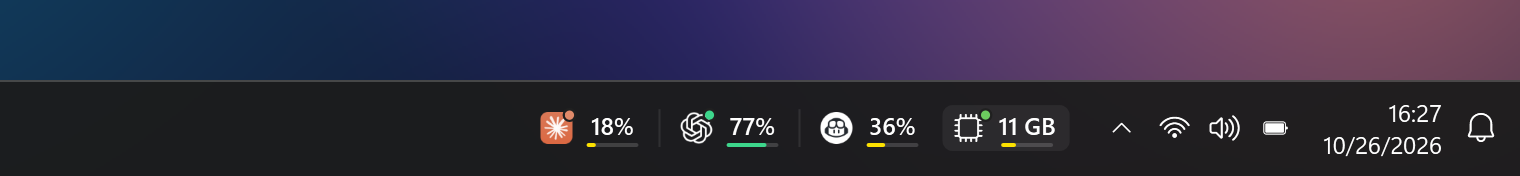
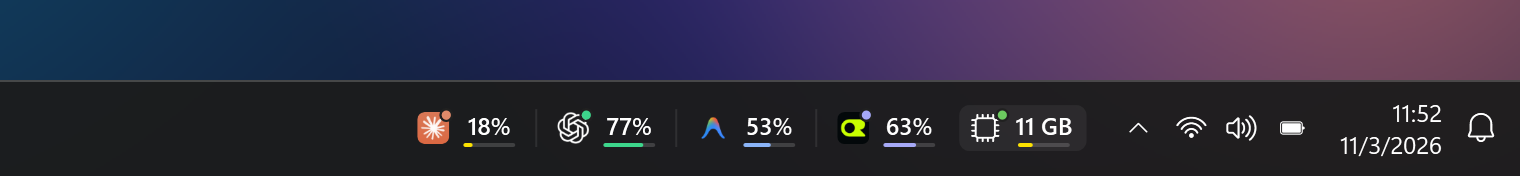
Refresh the README images and add the AI apps GIF

Changed region(s): [[0.2474, 0.625, 0.8658, 0.8523], [0.8967, 0.5966, 0.9586, 0.7102], [0.8658, 0.767, 0.9276, 0.8807]]

diff --git a/README.md b/README.md
@@ -13,7 +13,7 @@
 
 </div>
 
-<p align="center"><img src="docs/media/hero-taskbar.png" alt="The AI Meter pill inside the Windows 11 taskbar, with its tooltip: Claude, ChatGPT and Copilot limits and a local model loaded in Ollama"></p>
+<p align="center"><img src="docs/media/hero-taskbar.png" alt="The AI Meter pill inside the Windows 11 taskbar, with its tooltip: Claude, ChatGPT, Antigravity and OpenRouter limits and a local model loaded in Ollama"></p>
 
 That's all of it, most of the time: a pill **inside** the taskbar. No widget to arrange, no window stuck on top of your work. Hover for the summary, click for everything.
 
@@ -26,7 +26,7 @@ That's all of it, most of the time: a pill **inside** the taskbar. No widget to 
 - **Your subscriptions, before the wall.** Claude, ChatGPT / Codex, GitHub Copilot, Google Antigravity, Cursor, OpenRouter, Vercel AI Gateway, Experiential Labs, DeepSeek, Kimi, plus, for the AI apps you connect, the model lists of NVIDIA API Catalog and Gemini API. For the services with limits: 5-hour and weekly limits, a forecast ("at this pace it runs out at 15:40"), a notification at 20% and 5% that tells you which service still has room, and a tip before a reset when part of a limit would go unused. Pick which limit each service shows in the pill, and get notified whenever the limits you choose reset.
 - **Private and open.** No telemetry; the only network requests are each service's own usage endpoint. Apache 2.0 licensed, and a new service is a [20-line JSON file](docs/PROVIDERS.md).
 
-<p align="center"><img src="docs/media/demo.gif" alt="A notification warns that the Claude session is running low, then a click on the pill opens the panel with every service, local models and agents" width="440"></p>
+<p align="center"><img src="docs/media/demo.gif" alt="A notification warns that the Claude session is running low, then a click on the pill opens the panel, which scrolls through Claude, ChatGPT, Antigravity, OpenRouter with its budget and today's models, local models and agents" width="440"></p>
 
 <table>
 <tr>
@@ -81,6 +81,13 @@ Prefer a single executable? **AIMeter.zip** has `AIMeter.exe` (unsigned for now,
 | **AI apps (MCP)** | Claude Desktop, Claude Code, Codex, Antigravity CLI, OpenCode, Pi, Cursor and VS Code can read your limits, running sessions, free models and today's spending through AI Meter's MCP server, which changes nothing except its own `leases.json` when coding agents lease capacity. Connect each one with a switch in Settings → AI apps. [Details](docs/MCP.md). |
 | **Delegation (preview)** | A plugin for Claude Code and Codex hands self-contained tasks to a coding agent you already have (Pi or OpenCode) on a free model that AI Meter finds has room. Read-only by default; changes go to a new Git worktree. [Details](plugins/ai-meter/README.md). |
 | **Usage history** | Local quota cycles, spending, session tokens, models and tools, daily totals and consumption signals. Optional feedback records whether the result was worth the consumption. Open from the notification-area menu or Settings → Usage history. |
+
+<p align="center"><img src="docs/media/ai-apps.gif" alt="Settings, AI apps: switching on Claude Code and Codex, which then read AI Meter through MCP, and copying the command that adds AI Meter to Codex in WSL" width="720"></p>
+
+<details>
+<summary>See the AI apps page in the light theme</summary>
+<p align="center"><img src="docs/media/ai-apps-light.png" alt="The AI apps page in the light theme: apps found on the PC, each with its configuration file and a switch"></p>
+</details>
 
 For each service: remaining share of the **5-hour** and **weekly** limits with reset times, plus the active sessions with title, model and status.
 
